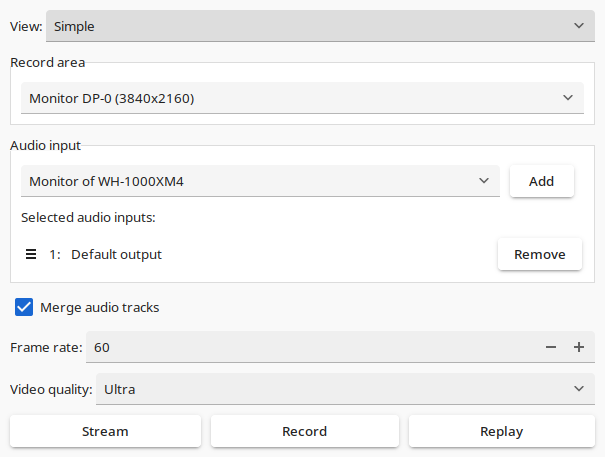
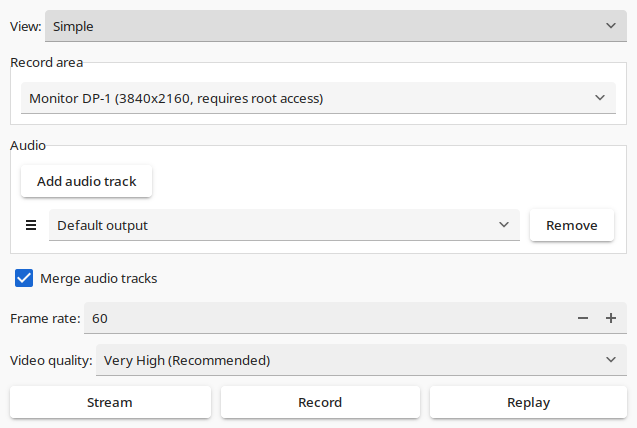
Attempt to fix amd/intel driver bug causing vram leak (#62)
Redesign audio input in gui.
Add framerate mode option in gui.

diff --git a/README.md b/README.md
@@ -1,4 +1,4 @@
 # GPU Screen Recorder
 This is a screen recorder that has minimal impact on system performance by recording a window using the GPU only, similar to shadowplay on windows. This is the fastest screen recording tool for Linux. This software only works with X11 and Wayland.
 
-The source code is available at https://git.dec05eba.com/gpu-screen-recorder/about/ and the source code for the gui is available at https://git.dec05eba.com/gpu-screen-recorder-gtk/about/
+The source code is available at https://git.dec05eba.com/gpu-screen-recorder/ and the source code for the gui is available at https://git.dec05eba.com/gpu-screen-recorder-gtk/
